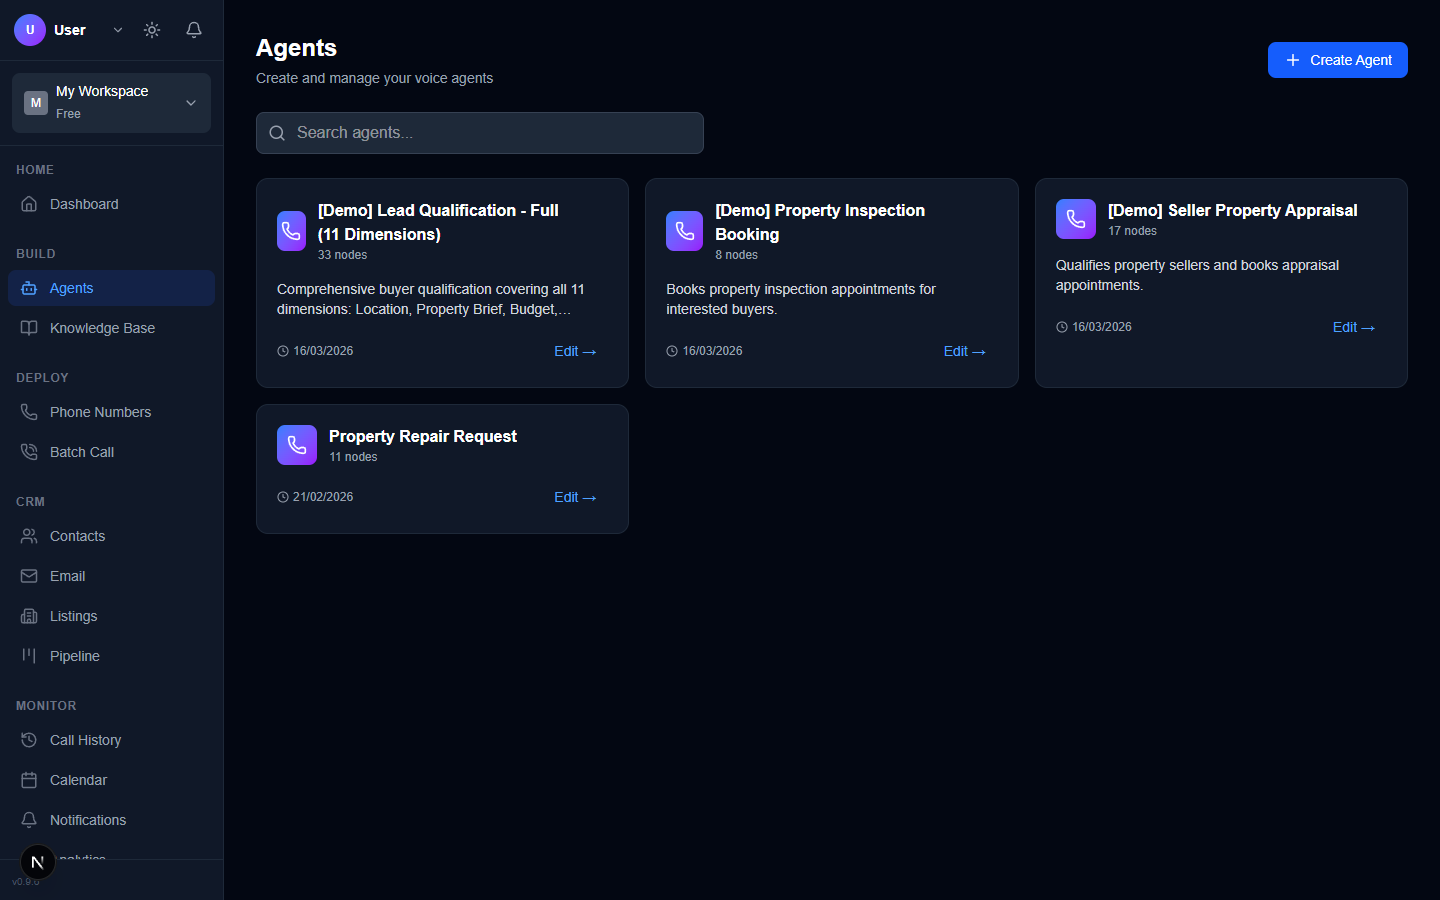
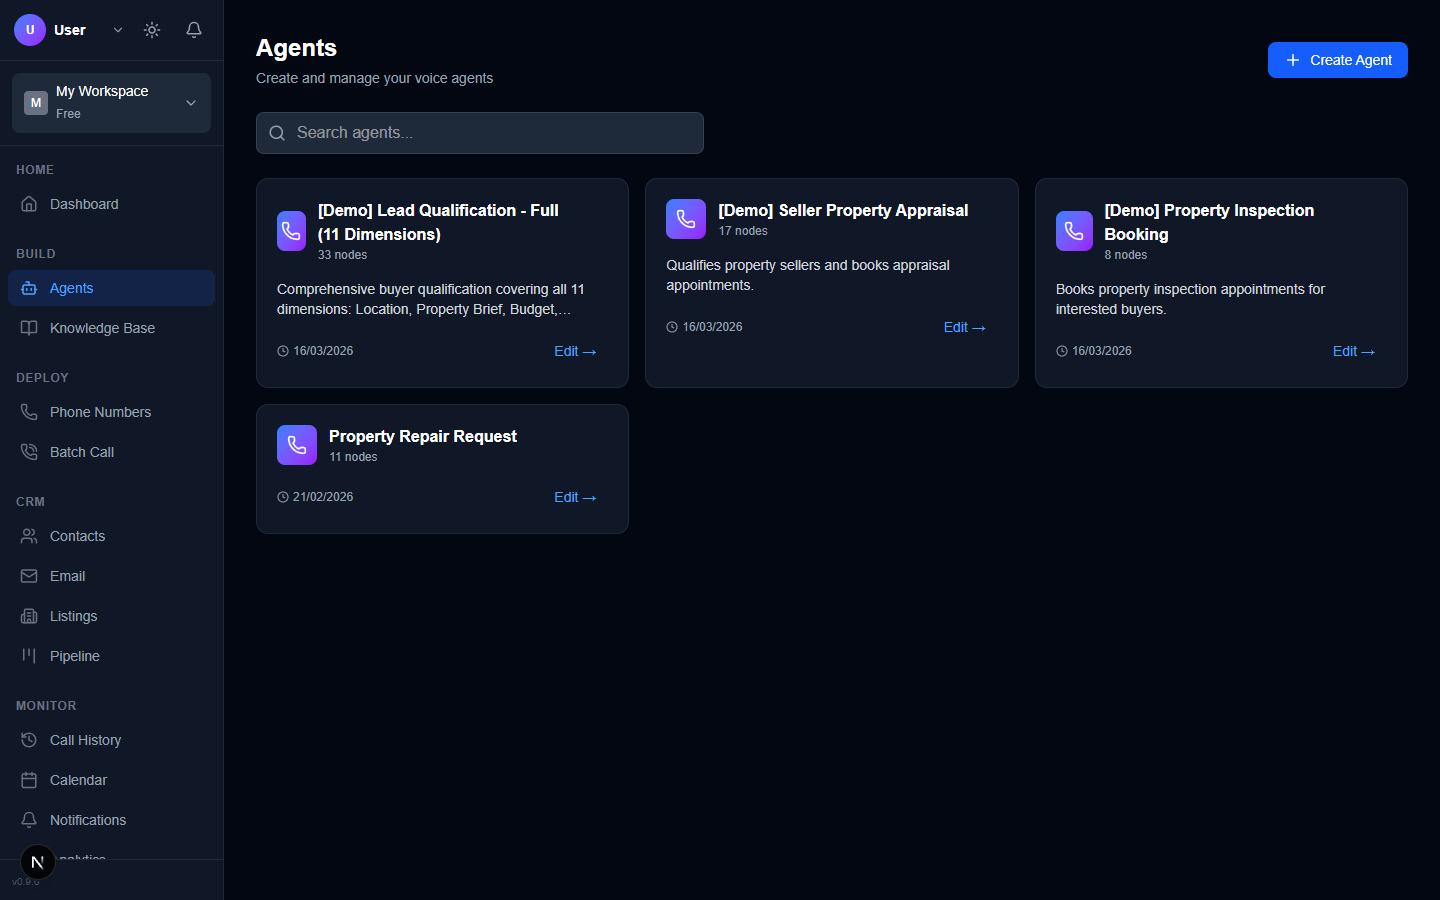
Update v2: remove em dashes, fix team names, swap screenshots
- Remove all em dashes from HomePage, AboutPage, ContactPage
- Update co-founder name to Iris Wang (IW)
- Swap flow-editor screenshot to cleaner booking template
- Swap Email AI screenshot for Calendar
- Add 17 platform screenshots from workflow-lab

Changed region(s): [[0.7188, 0.2178, 0.9375, 0.4044], [0.4688, 0.2178, 0.6875, 0.4044], [0.6562, 0.3422, 0.6875, 0.4044]]

diff --git a/v2/src/pages/HomePage.jsx b/v2/src/pages/HomePage.jsx
@@ -49,7 +49,7 @@ export default function HomePage() {
             <h1>AI-Powered Lead Qualification for Real Estate</h1>
             <p className="hero__subtitle">
               ArcSage automates lead intake, intelligent scoring, personalised follow-up,
-              and multilingual communication — so your agents focus on closing deals, not chasing leads.
+              and multilingual communication, so your agents focus on closing deals, not chasing leads.
             </p>
             <div className="hero__ctas">
               <Link to="/contact" className="btn btn--primary btn--lg">
@@ -157,7 +157,7 @@ export default function HomePage() {
               step: '03',
               icon: <MessageSquare size={28} />,
               title: 'Personalised Reply',
-              desc: 'AI drafts and sends a contextual, personalised reply — in English or Chinese — within minutes. No templates, every response is unique.',
+              desc: 'AI drafts and sends a contextual, personalised reply in English or Chinese within minutes. No templates, every response is unique.',
               color: 'green'
             },
             {
@@ -189,12 +189,12 @@ export default function HomePage() {
             {
               icon: <Brain size={24} />,
               title: 'Intelligent Lead Scoring',
-              desc: '11-dimension rubric with 100-point scale. Budget, timeline, location preference, pre-approval status, and more — all extracted and scored automatically.',
+              desc: '11-dimension rubric with 100-point scale. Budget, timeline, location preference, pre-approval status, and more, all extracted and scored automatically.',
             },
             {
               icon: <Globe size={24} />,
               title: 'Bilingual Communication',
-              desc: 'Native English and Chinese support. AI detects language automatically and responds in kind — critical for multicultural markets.',
+              desc: 'Native English and Chinese support. AI detects language automatically and responds in kind, critical for multicultural markets.',
             },
             {
               icon: <Bot size={24} />,
@@ -235,10 +235,10 @@ export default function HomePage() {
         <motion.div className="screenshots__grid" variants={stagger}>
           {[
             { title: 'Dashboard', desc: 'At-a-glance metrics, recent agents, and quick actions', file: 'dashboard.png' },
-            { title: 'Visual Flow Builder', desc: 'Drag-and-drop conversation flows with 33+ node types for lead qualification', file: 'flow-editor.png' },
-            { title: 'Agent Builder', desc: 'Create agents from templates — lead qualification, inspection booking, and more', file: 'agents.png' },
+            { title: 'Visual Flow Builder', desc: 'Drag-and-drop conversation flows with 33+ node types for lead qualification', file: 'flow-editor-booking.png' },
+            { title: 'Agent Builder', desc: 'Create agents from templates: lead qualification, inspection booking, and more', file: 'agents.png' },
             { title: 'Analytics', desc: 'Call volume, success rates, duration trends, and latency tracking', file: 'analytics.png' },
-            { title: 'Email AI', desc: 'Automated email processing with qualification status filtering', file: 'email.png' },
+            { title: 'Calendar', desc: 'Integrated scheduling for inspections, follow-ups, and team coordination', file: 'calendar.png' },
             { title: 'Billing & Pricing', desc: 'Transparent usage-based pricing with real-time cost tracking', file: 'billing.png' },
           ].map((s, i) => (
             <motion.div key={i} className="screenshot-card" variants={fadeUp}>

diff --git a/v2/src/pages/AboutPage.jsx b/v2/src/pages/AboutPage.jsx
@@ -55,15 +55,15 @@ export default function AboutPage() {
               happens across multiple languages and time zones.
             </p>
             <p>
-              We saw an opportunity to apply modern AI — large language models, intelligent scoring
-              systems, and conversational voice agents — to solve this problem at scale. Not as a
+              We saw an opportunity to apply modern AI including large language models, intelligent scoring
+              systems, and conversational voice agents to solve this problem at scale. Not as a
               generic chatbot, but as a purpose-built platform that understands the nuances of
               real estate: property preferences, budget signals, pre-approval status, and cultural context.
             </p>
             <p>
               Today, ArcSage is live in production, processing over 25,000 leads for Australian
-              real estate agencies. Our platform handles the entire qualification pipeline — from
-              initial enquiry to scored lead to personalised follow-up — in minutes, not days.
+              real estate agencies. Our platform handles the entire qualification pipeline,from
+              initial enquiry to scored lead to personalised follow-up. In minutes, not days.
             </p>
           </motion.div>
         </div>
@@ -90,7 +90,7 @@ export default function AboutPage() {
               <p>
                 AI and data engineer with deep experience in enterprise AI systems, ML infrastructure,
                 and automation platforms. Background spanning data analytics, cloud architecture (GCP),
-                and full-stack development. Leads ArcSage's technical vision — from LLM pipeline design
+                and full-stack development. Leads ArcSage's technical vision, from LLM pipeline design
                 to voice AI agent development.
               </p>
               <div className="team-card__skills">
@@ -101,8 +101,8 @@ export default function AboutPage() {
               </div>
             </motion.div>
             <motion.div className="team-card" variants={fadeUp}>
-              <div className="team-card__avatar">RW</div>
-              <h3>Ris Wang</h3>
+              <div className="team-card__avatar">IW</div>
+              <h3>Iris Wang</h3>
               <span className="team-card__role">Co-Founder & CEO</span>
               <p>
                 Business strategist with extensive experience in real estate operations, client management,
@@ -164,7 +164,7 @@ export default function AboutPage() {
               {
                 icon: <Eye size={28} />,
                 title: 'Clarity',
-                desc: 'We turn complex data into clear, actionable insights. No black boxes — every score is explainable.',
+                desc: 'We turn complex data into clear, actionable insights. No black boxes, every score is explainable.',
               },
               {
                 icon: <Shield size={28} />,

diff --git a/v2/src/pages/ContactPage.jsx b/v2/src/pages/ContactPage.jsx
@@ -25,7 +25,7 @@ export default function ContactPage() {
           transition={{ duration: 0.6 }}
         >
           <h1>Get in Touch</h1>
-          <p>Whether you're ready to start or just exploring — we'd love to hear from you.</p>
+          <p>Whether you're ready to start or just exploring,we'd love to hear from you.</p>
         </motion.div>
 
         <div className="contact-page__grid">
